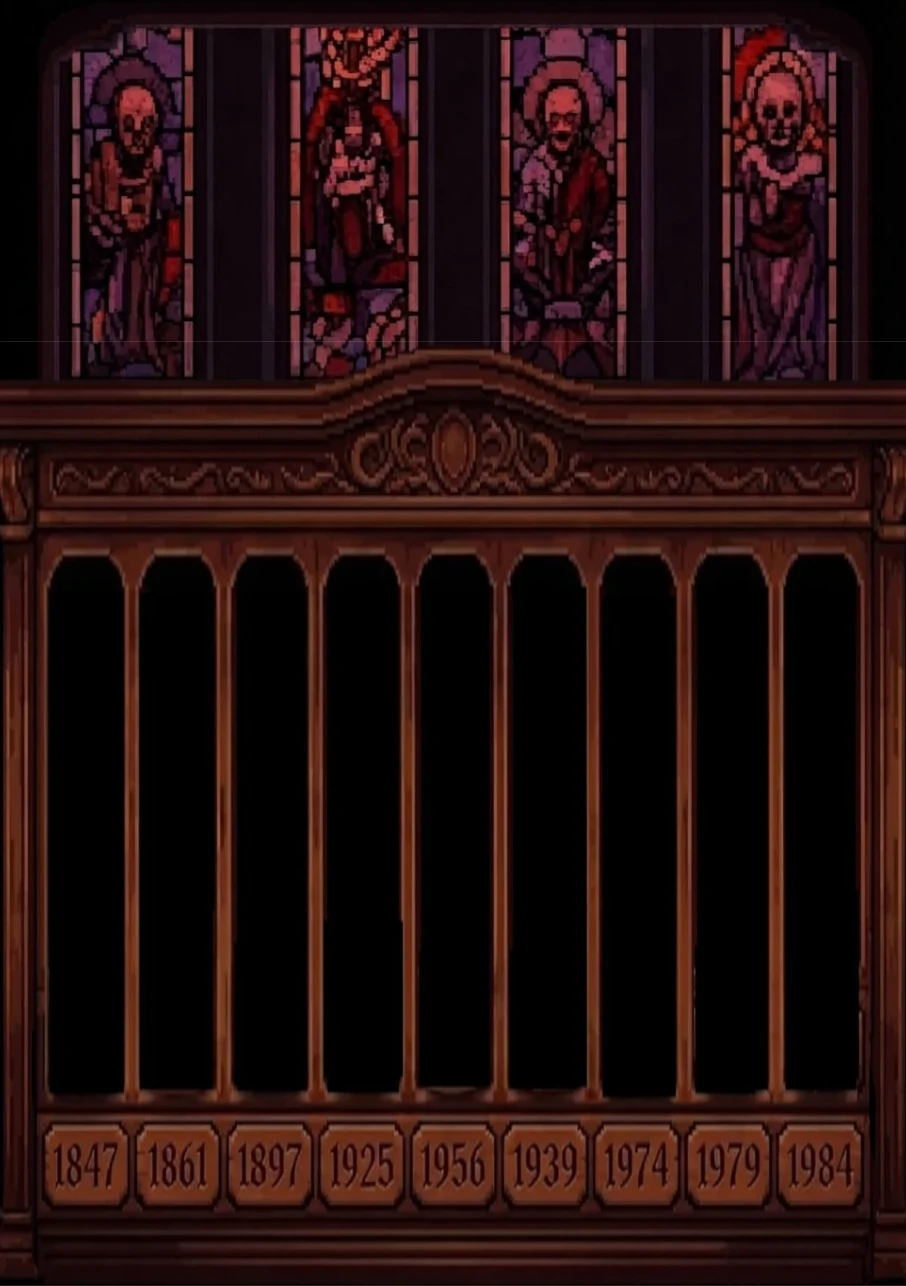
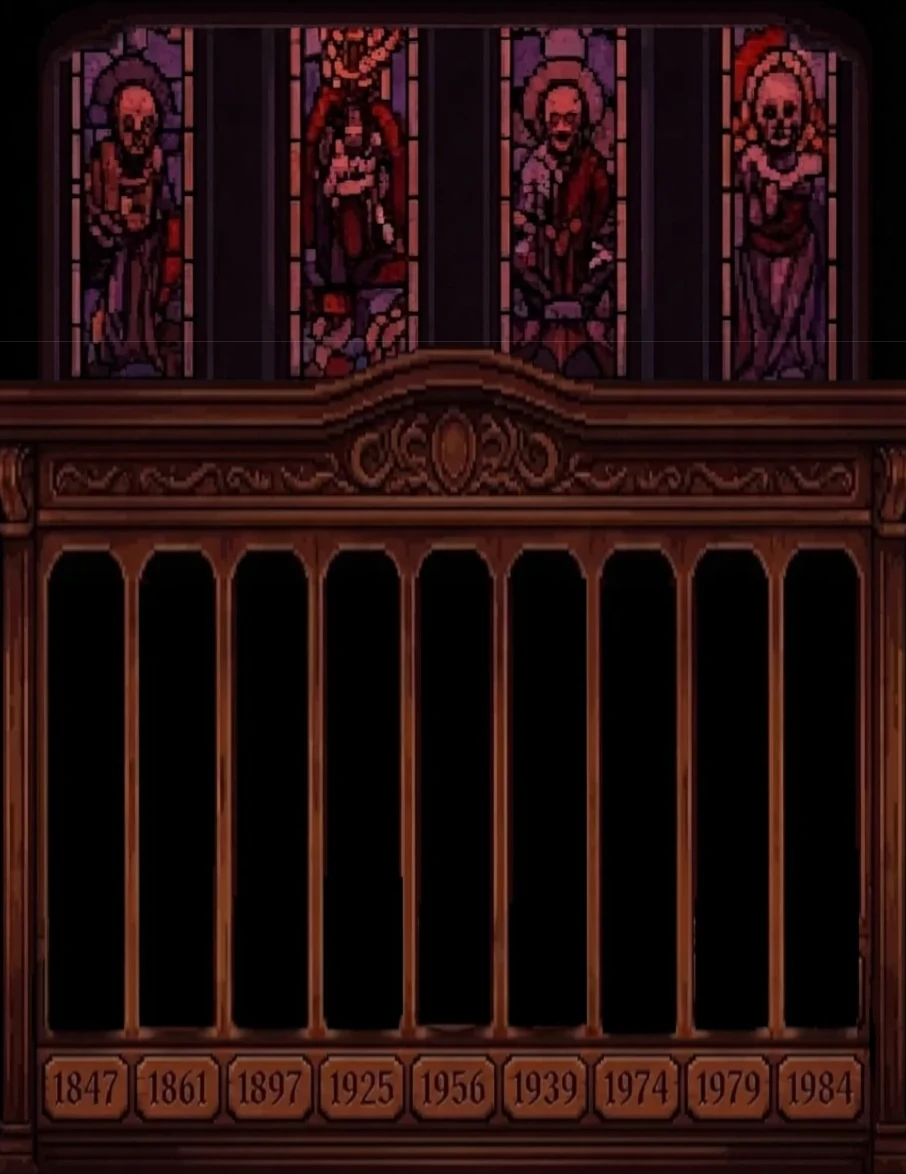
-

diff --git a/components/bookshelf-chronology-puzzle.tsx b/components/bookshelf-chronology-puzzle.tsx
@@ -46,30 +46,27 @@ const CORRECT_ORDER = [
 ]
 
 const SLOT_CENTERS_X = [90.2, 180.9, 273.1, 361.8, 453.0, 546.2, 636.9, 725.1, 815.8]
-const SLOT_TOP = 556
-const SLOT_BOTTOM = 1074
+const SLOT_TOP = 558
+const SLOT_BOTTOM = 1028
+const BEAM_TOP = 545
 const CANVAS_WIDTH = 906
-const CANVAS_HEIGHT = 1286
+const CANVAS_HEIGHT = 1174
 
-function shuffle<T>(arr: T[]): T[] {
-  const a = [...arr]
-  for (let i = a.length - 1; i > 0; i--) {
-    const j = Math.floor(Math.random() * (i + 1))
-    ;[a[i], a[j]] = [a[j], a[i]]
-  }
-  return a
-}
-
-function randomStartOrder(): string[] {
-  let order = shuffle(CORRECT_ORDER)
-  while (order.every((id, i) => id === CORRECT_ORDER[i])) {
-    order = shuffle(CORRECT_ORDER)
-  }
-  return order
-}
+// Starting arrangement: shortest to tallest spine, left to right.
+const START_ORDER = [
+  "ghoststory",
+  "barrenground",
+  "carrie",
+  "thethirdeye",
+  "dracula",
+  "empireofthesun",
+  "greatexpectations",
+  "wutheringheights",
+  "andthentherewerenone",
+]
 
 export default function BookshelfChronologyPuzzle({ onSolve }: BookshelfChronologyPuzzleProps) {
-  const [slotOrder, setSlotOrder] = useState<string[]>(randomStartOrder)
+  const [slotOrder, setSlotOrder] = useState<string[]>(START_ORDER)
   const [draggedSlot, setDraggedSlot] = useState<number | null>(null)
   const [revealed, setRevealed] = useState(false)
 
@@ -77,12 +74,14 @@ export default function BookshelfChronologyPuzzle({ onSolve }: BookshelfChronolo
   const isSolved = slotOrder.every((id, i) => id === CORRECT_ORDER[i])
 
   useEffect(() => {
-    if (isSolved && !revealed) {
-      setRevealed(true)
-      const timer = setTimeout(() => onSolve(), 2200)
-      return () => clearTimeout(timer)
-    }
-  }, [isSolved, revealed, onSolve])
+    if (isSolved) setRevealed(true)
+  }, [isSolved])
+
+  useEffect(() => {
+    if (!isSolved) return
+    const timer = setTimeout(() => onSolve(), 2200)
+    return () => clearTimeout(timer)
+  }, [isSolved, onSolve])
 
   function handleDrop(targetIndex: number) {
     if (revealed || draggedSlot === null || draggedSlot === targetIndex) return
@@ -97,15 +96,14 @@ export default function BookshelfChronologyPuzzle({ onSolve }: BookshelfChronolo
   return (
     <div className="my-4 flex flex-col items-center gap-2">
       <div
-        className="relative w-full transition-[filter] duration-1000"
+        className="relative w-full"
         style={{
           maxWidth: 480,
           aspectRatio: `${CANVAS_WIDTH} / ${CANVAS_HEIGHT}`,
-          filter: revealed ? "brightness(0.55)" : "none",
         }}
       >
         <img
-          src="/images/bookshelf/bookshelf.webp"
+          src={revealed ? "/images/bookshelf/bookshelf_dark.webp" : "/images/bookshelf/bookshelf.webp"}
           alt="Bookshelf"
           className="absolute inset-0 w-full h-full object-contain pointer-events-none select-none"
           style={{ zIndex: 0 }}
@@ -118,12 +116,12 @@ export default function BookshelfChronologyPuzzle({ onSolve }: BookshelfChronolo
           className="absolute pointer-events-none"
           style={{
             left: `${(SLOT_CENTERS_X[4] / CANVAS_WIDTH) * 100}%`,
-            top: 0,
+            top: `${(BEAM_TOP / CANVAS_HEIGHT) * 100}%`,
             width: "26%",
-            height: `${(SLOT_BOTTOM / CANVAS_HEIGHT) * 100}%`,
+            height: `${((SLOT_BOTTOM - BEAM_TOP) / CANVAS_HEIGHT) * 100}%`,
             transform: "translateX(-50%)",
             clipPath: "polygon(44% 0%, 56% 0%, 100% 100%, 0% 100%)",
-            background: "linear-gradient(to bottom, rgba(255,235,205,0) 0%, rgba(255,225,190,0.14) 100%)",
+            background: "linear-gradient(to bottom, rgba(190,150,220,0) 0%, rgba(190,140,215,0.07) 100%)",
             mixBlendMode: "screen",
             zIndex: 20,
           }}
@@ -136,7 +134,7 @@ export default function BookshelfChronologyPuzzle({ onSolve }: BookshelfChronolo
             width: "16%",
             height: `${((SLOT_BOTTOM - SLOT_TOP) / CANVAS_HEIGHT) * 100}%`,
             transform: "translate(-50%, -8%)",
-            background: "radial-gradient(ellipse at 50% 15%, rgba(255,200,160,0.22) 0%, transparent 65%)",
+            background: "radial-gradient(ellipse at 50% 15%, rgba(190,130,210,0.10) 0%, transparent 65%)",
             mixBlendMode: "screen",
             zIndex: 21,
           }}
@@ -179,13 +177,25 @@ export default function BookshelfChronologyPuzzle({ onSolve }: BookshelfChronolo
         })}
 
         {revealed && (
-          <img
-            src="/images/bookshelf/light.webp"
-            alt=""
-            className="absolute inset-0 w-full h-full object-contain pointer-events-none select-none animate-in fade-in duration-[1500ms]"
-            style={{ zIndex: 50, mixBlendMode: "screen" }}
-            draggable={false}
-          />
+          <div
+            className="absolute pointer-events-none animate-in fade-in duration-[1500ms]"
+            style={{
+              left: `${(SLOT_CENTERS_X[4] / CANVAS_WIDTH) * 100}%`,
+              top: `${(BEAM_TOP / CANVAS_HEIGHT) * 100}%`,
+              width: "16%",
+              height: `${((SLOT_BOTTOM - BEAM_TOP) / CANVAS_HEIGHT) * 100}%`,
+              transform: "translateX(-50%)",
+              zIndex: 50,
+            }}
+          >
+            <img
+              src="/images/bookshelf/light-cropped.webp"
+              alt=""
+              className="w-full h-full object-contain pointer-events-none select-none"
+              style={{ objectPosition: "center top", mixBlendMode: "screen" }}
+              draggable={false}
+            />
+          </div>
         )}
       </div>
       {revealed && (
